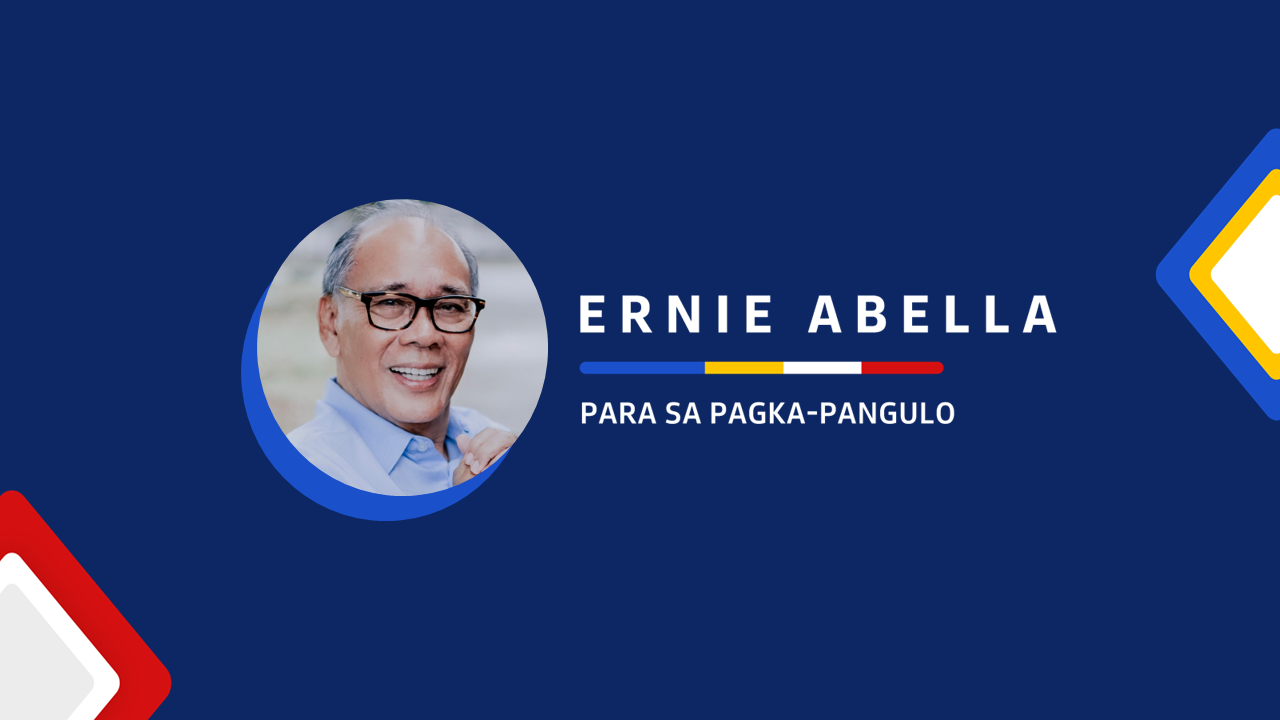
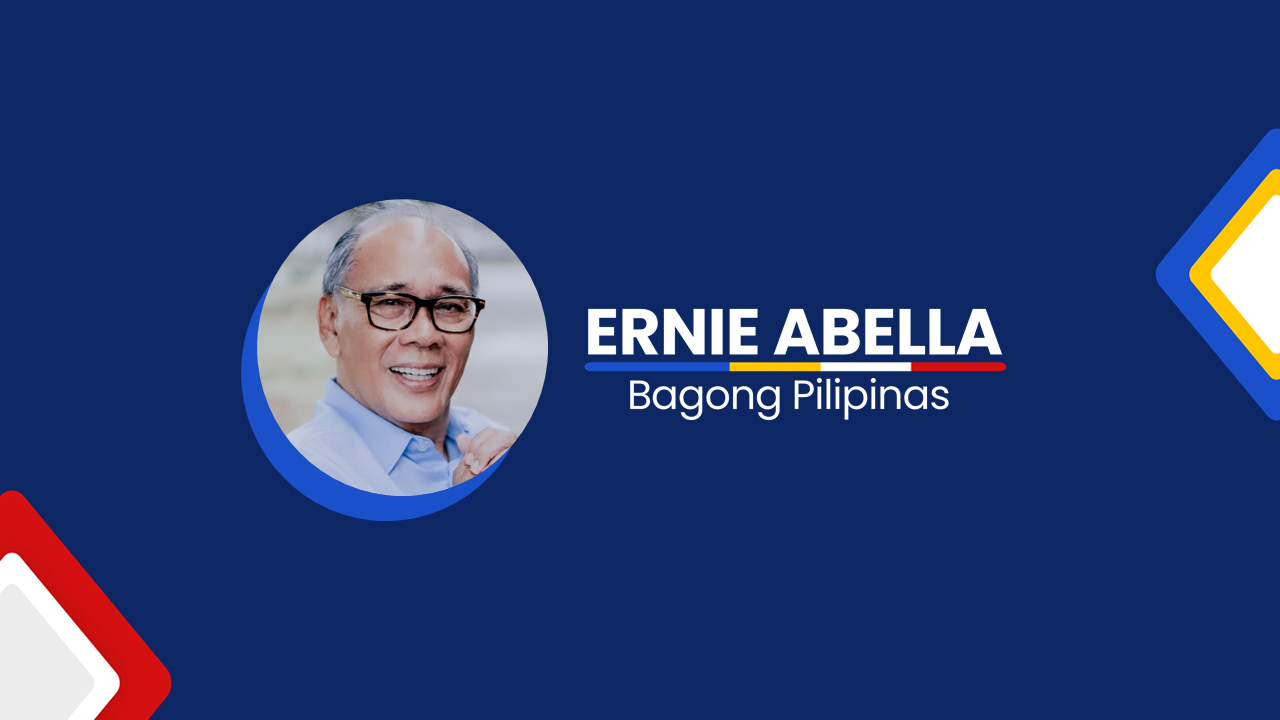
thumbnail and Head

Changed region(s): [[0.4375, 0.3972, 0.8438, 0.6111]]

diff --git a/pages/index.js b/pages/index.js
@@ -19,10 +19,10 @@ export default function Home() {
   return (
     <div className={styles.main}>
        <Head>
-          <title>ERNIE ABELLA - PARA SA PAGKA-PANGULO NG PILIPINAS</title>
+          <title>ERNIE ABELLA - BAGONG PILIPINAS</title>
           <meta name="description" content="PAG NABAGO ANG LOOB NG BAWAT PILIPINO MABABAGO ANG BAYAN NG PILIPINAS"/>
           <meta property="og:type"               content="website" />
-          <meta property="og:title"              content="ERNIE ABELLA - PARA SA PAGKA-PANGULO NG PILIPINAS" />
+          <meta property="og:title"              content="ERNIE ABELLA - BAGONG PILIPINAS" />
           <meta property="og:image"              content='./Thumbnail/ernieabella.png' />
         </Head>
       
